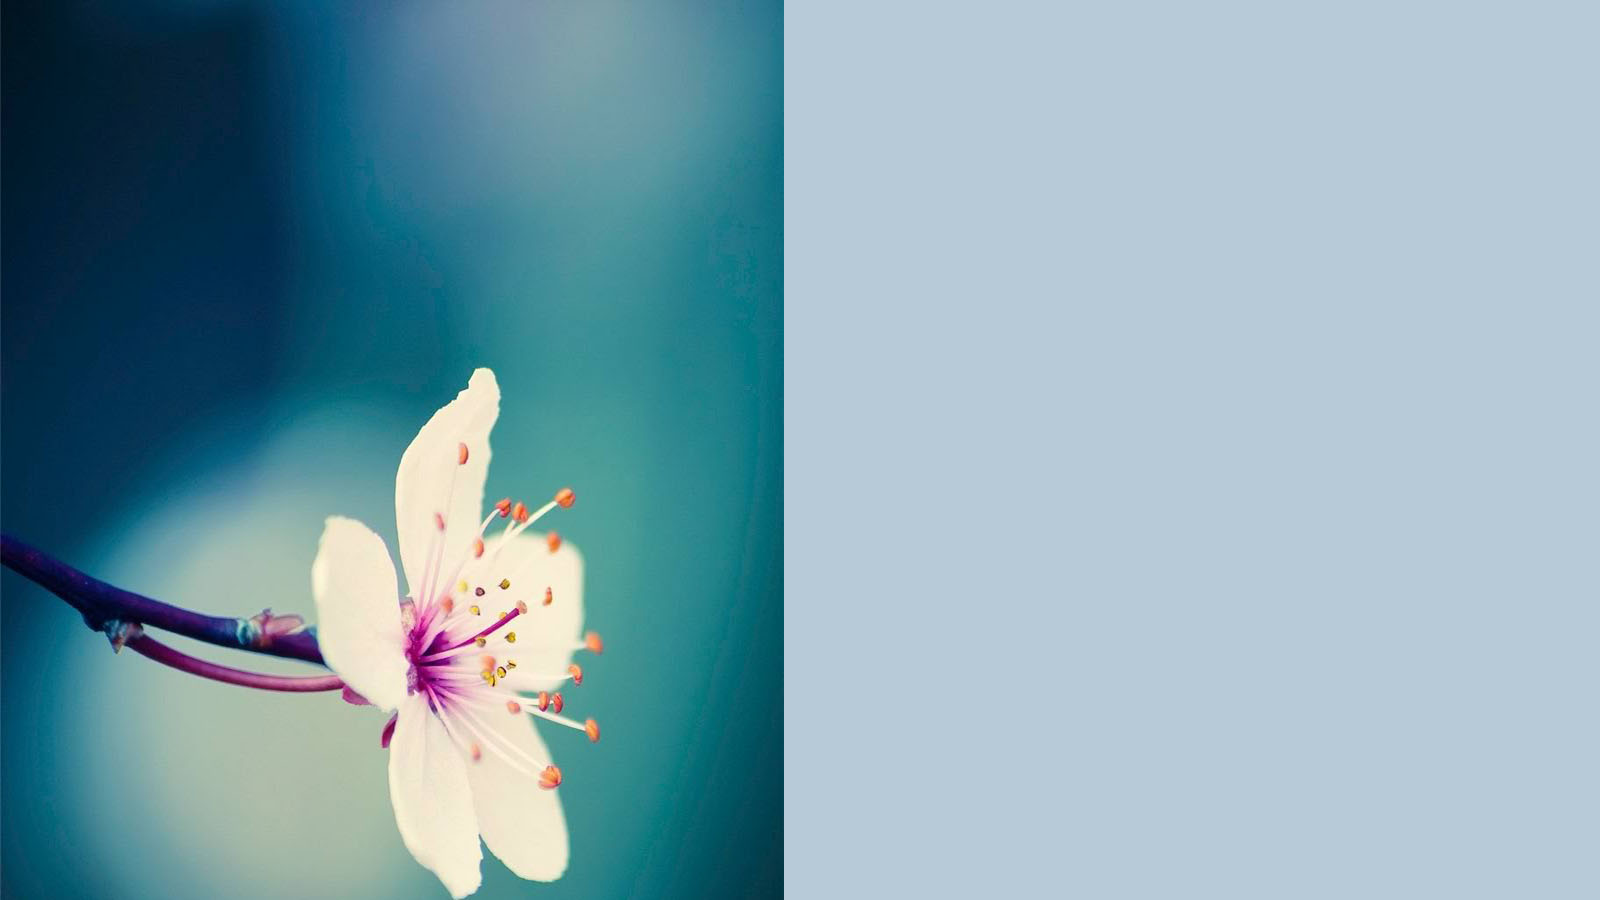
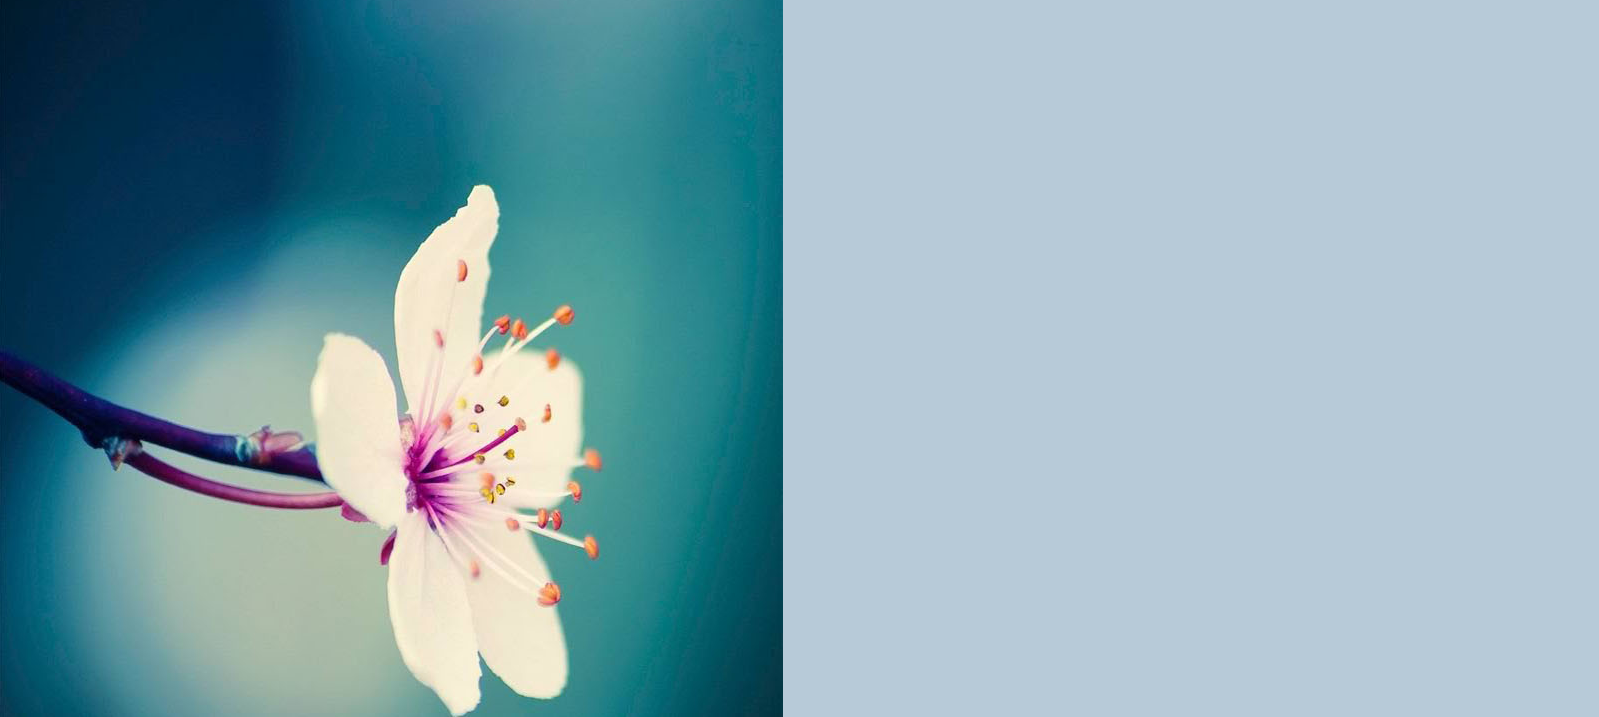
Adding Background with some context

Changed region(s): [[0.0, 0.0, 0.4903, 0.9205], [0.2452, 0.8898, 0.3677, 0.9819], [0.2758, 0.9819, 0.3064, 1.0]]

diff --git a/Style/styles.css b/Style/styles.css
@@ -1,0 +1,44 @@
+
+html, body{
+	height: 100%;
+}
+
+body{
+	
+	background-image: url('option7.jpg') no-repeat center center;
+	background-size: cover;
+	display: flex;
+	flex-direction: column;
+	justify-content: center;
+}
+.container
+{
+	width: 600px;
+	margin: 0 auto;
+	text-align: center;
+}
+.name{
+	color: #ffffff;
+	font: 900 96px;
+	text-shadow: 0px 2px 4px rgba(0,0,0,0.6);
+	margin-bottom: 24px;
+}
+.cur {
+	color: #ffffff;
+	font: 900 96px;
+	text-shadow: 0px 2px 4px rgba(0,0,0,0.6);
+	margin-bottom: 24px;
+}
+.btn {
+	border-radius: 9px;
+	color: #f9f3f4;
+	text-decoration: none;
+	text-shadow: 0px 2px 4px rgba(0,0,0,0.6);
+	font-family: 'Century Gothic', sans-serif;
+	border: 3px solid;
+	padding: 7px 13px;
+	font-weight: bold;
+}
+.btn:hover{
+	color: #2196f3;
+}

diff --git a/index.html b/index.html
@@ -1,0 +1,21 @@
+<!DOCTYPE html>
+
+<html lang = "en">
+
+<head>
+	<meta charset = "utf-8">
+		<title> Dabe</title>
+	<link rel= "stylesheet" type="text/css" href = "Style/styles.css">
+</head>
+	
+<body background = "images/option7.jpg">
+	<div class = "container">
+		<h1 class = "name"> Dave Andre Enajda</h1>
+		<h3 class = "cur"> A Student<h3> 
+		<a href = "Home.html" class="btn">
+		Know me well
+		</a>
+	</div>
+</body>	
+
+</html>

diff --git a/Home.html b/Home.html
@@ -1,0 +1,11 @@
+<!DOCTYPE HTML>
+
+<title> Home </title>
+
+<body background = "images/Option2.jpg">
+ 
+	
+</body>
+<div class = "Head" > <h1>Bayot ko Forever</h1>
+
+</div>
